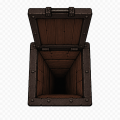
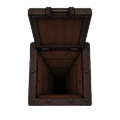
Delay de spawn de enemigos y jefe + audio para escotilla.
Tambien toquetie los stats de los jefes para que no sean paredes de vida

diff --git a/mapa.py b/mapa.py
@@ -6,7 +6,7 @@ import os
 from base import Base
 from enemigo import Enemigo, EnemigoDisparador
 from jefes import JefePiso1, JefePiso2, JefePiso3
-
+from audio import AudioManager
 
 ANCHO_PANTALLA = 800
 ALTO_PANTALLA = 600
@@ -94,16 +94,13 @@ class TexturasMapa:
 
         self.sala_comun = self.cargar_imagen(ruta_sala_comun)
 
-    
         self.puertas_sheet = self.cargar_imagen(os.path.join(ruta_mapa, "puertas_0.png"))
         self.roca = self.cargar_imagen(os.path.join(ruta_mapa, "roca_0.png"))
         self.trampilla_cerrada = self.cargar_imagen(os.path.join(ruta_mapa, "escotilla_cerrada.png"))
         self.trampilla_abierta = self.cargar_imagen(os.path.join(ruta_mapa, "escotilla_abierta.png"))
 
-        
         self.sala_tutorial_fondo = None
         self.sala_comun_fondo = None
-
 
         self.puertas = {
             "ARRIBA": None,
@@ -111,7 +108,6 @@ class TexturasMapa:
             "IZQUIERDA": None,
             "DERECHA": None
         }
-
 
         if self.roca is not None:
             self.roca = limpiar_sprite(self.roca, (TAM_ROCA, TAM_ROCA), tolerancia=60)
@@ -244,6 +240,8 @@ class Trampilla(Base):
 
         if self.imagen_actual is not None:
             self.rect = self.imagen_actual.get_rect(topleft=(self.x, self.y))
+        
+        AudioManager.play_sfx("trampilla_abierta")
 
     def cerrar(self):
         self.visible = True
@@ -306,6 +304,15 @@ class Sala(Base):
         self.conexiones = {}
 
         self.trampilla = None
+
+        # variables para el delay de enemigos comunes
+        self.enemigos_guardados = []
+        self.tiempo_inicio_spawn = 0
+        self.timer_spawn_listo = False
+
+        # variables para el jefe
+        self.jefe_guardado = None
+        self.tiempo_entrada = 0
 
         if self.tipo == "boss" and self.texturas is not None:
             self.trampilla = Trampilla(
@@ -400,8 +407,10 @@ class Sala(Base):
 
         # Si es sala boss y ya no quedan enemigos, aparece la trampilla abierta
         if self.tipo == "boss" and self.trampilla is not None:
-            if len(self.enemigos) == 0:
-                self.trampilla.abrir()
+            # checkeamos que el jefe ya haya spawneado de la lista de espera
+            if self.jefe_guardado is None and len(self.enemigos) == 0:
+                if not self.trampilla.abierta:
+                    self.trampilla.abrir()
 
     def colision(self, rect_jugador):
         for obstaculo in self.obstaculos:
@@ -511,10 +520,8 @@ class Piso(Base):
             color_fondo=(45, 20, 20),
             texturas=self.texturas
         )
-
-        self.salas["boss"].agregar_enemigo(
-            self.crear_jefe_del_piso()
-        )
+        self.salas["boss"].jefe_guardado = self.crear_jefe_del_piso()
+        self.salas["boss"].tiempo_entrada = 0
 
         self.generar_conexiones_aleatorias()
 
@@ -643,6 +650,19 @@ class Piso(Base):
     def cambiar_sala(self, nombre_sala):
         if nombre_sala in self.salas:
             self.sala_actual = self.salas[nombre_sala]
+            
+            # Delay de spawn de enemigos con sonido
+            if len(self.sala_actual.enemigos) > 0 and not self.sala_actual.timer_spawn_listo:
+                self.sala_actual.enemigos_guardados = self.sala_actual.enemigos
+                self.sala_actual.enemigos = []
+                self.sala_actual.tiempo_inicio_spawn = pygame.time.get_ticks()
+            
+            # Sonido de cierre de puertas
+            if self.sala_actual.tipo == "boss" and self.sala_actual.jefe_guardado is not None:
+                if self.sala_actual.tiempo_entrada == 0:
+                    self.sala_actual.tiempo_entrada = pygame.time.get_ticks()
+                    AudioManager.play_sfx("spawn_jefe")
+
             print(
                 "Sala actual:",
                 self.sala_actual.nombre,
@@ -671,18 +691,31 @@ class Piso(Base):
 
     def actualizar(self, pantalla, jugador=None, balas=None):
         if self.sala_actual is not None:
+            # Los enemigos se spawnean al 0.5 segundo
+            if len(self.sala_actual.enemigos_guardados) > 0:
+                if pygame.time.get_ticks() - self.sala_actual.tiempo_inicio_spawn >= 500:
+                    AudioManager.play_sfx("spawn_enemigos")
+                    self.sala_actual.enemigos = self.sala_actual.enemigos_guardados
+                    self.sala_actual.enemigos_guardados = []
+                    self.sala_actual.timer_spawn_listo = True
+
+            # Se spawnea el jefe 1 sec despues
+            if self.sala_actual.tipo == "boss" and self.sala_actual.jefe_guardado is not None:
+                if pygame.time.get_ticks() - self.sala_actual.tiempo_entrada >= 1000:
+                    AudioManager.play_sfx("spawn_enemigos")
+                    self.sala_actual.agregar_enemigo(self.sala_actual.jefe_guardado)
+                    self.sala_actual.jefe_guardado = None
+
             self.sala_actual.actualizar(pantalla, jugador, balas)
 
     def colision(self, rect_jugador):
         if self.sala_actual is not None:
             return self.sala_actual.colision(rect_jugador)
-
         return False
 
     def jugador_en_trampilla(self, rect_jugador):
         if self.sala_actual is not None:
             return self.sala_actual.jugador_en_trampilla(rect_jugador)
-
         return False
 
 

diff --git a/jefes.py b/jefes.py
@@ -16,10 +16,10 @@ class JefeBase(Enemigo):
         self.color = color
 
     def dibujar_barra_vida(self, pantalla):
-        ancho_barra = 450
+        ancho_barra = 375
         alto_barra = 20
-        x = 250
-        y = 20
+        x = 200
+        y = 550
 
         porcentaje = max(0, self.vida / self.vida_maxima)
 
@@ -38,16 +38,16 @@ class JefeBase(Enemigo):
 
 class JefePiso1(JefeBase):
     def __init__(self, x, y):
-        super().__init__(x, y, velocidad=1.6, vida=30, daño=1, color=(180, 40, 40))
+        super().__init__(x, y, velocidad=1.4, vida=14, daño=2, color=(180, 40, 40))
 
-    def actualizar(self, jugador, lista_balas=None, lista_enemigos=None):
+    def actualizar(self, jugador, lista_balas=None, lista_enemigos=None):   
         self.seguir_jugador(jugador)
         self.colision_con_jugador(jugador)
 
 
 class JefePiso2(JefeBase):
     def __init__(self, x, y):
-        super().__init__(x, y, velocidad=2, vida=40, daño=1, color=(150, 60, 180))
+        super().__init__(x, y, velocidad=2, vida=18, daño=2, color=(150, 60, 180))
 
         self.direccion_x = 1
         self.direccion_y = 1
@@ -89,7 +89,7 @@ class JefePiso2(JefeBase):
 
 class JefePiso3(JefeBase):
     def __init__(self, x, y):
-        super().__init__(x, y, velocidad=1, vida=55, daño=1, color=(40, 40, 190))
+        super().__init__(x, y, velocidad=1, vida=22, daño=2, color=(40, 40, 190))
 
         self.cooldown_disparo = 900
         self.ultimo_disparo = 0

diff --git a/enemigo.py b/enemigo.py
@@ -17,10 +17,10 @@ class Enemigo(Base):
         self.alto = 40
         self.rect = pygame.Rect(self.x, self.y, self.ancho, self.alto)
 
-        self.cooldown_daño = 700
+        self.cooldown_daño = 450
         self.ultimo_hit = 0
 
-        self.dimensiones = (60, 70)
+        self.dimensiones = (90, 90)
 
         ruta_raiz = os.path.dirname(os.path.abspath(__file__))
         ruta_carpeta = os.path.join(ruta_raiz, "imagenes", "enemigos", "perseguidor")
@@ -150,9 +150,9 @@ class Enemigo(Base):
 
 class EnemigoDisparador(Enemigo):
     def __init__(self, x, y):
-        super().__init__(x, y, velocidad=0, vida=5, daño=1)
+        super().__init__(x, y, velocidad=0, vida=3, daño=1)
 
-        self.cooldown_disparo = 1500
+        self.cooldown_disparo = 1750
         self.ultimo_disparo = 0
 
         ruta_raiz = os.path.dirname(os.path.abspath(__file__))

diff --git a/audio.py b/audio.py
@@ -25,7 +25,10 @@ class AudioManager:
             "muerte_enemigo": self._cargar_sfx("muerte.wav"),
             "lagrima_impacto": self._cargar_sfx("lagrima_impacto.mp3"),
             "jugar_de_nuevo": self._cargar_sfx("jugar_de_nuevo.mp3"),
-            "iniciar_juego": self._cargar_sfx("iniciar_juego.wav")
+            "iniciar_juego": self._cargar_sfx("iniciar_juego.wav"),
+            "trampilla_abierta": self._cargar_sfx("trampilla_abierta.mp3"),
+            "spawn_jefe": self._cargar_sfx("boss_spawn.mp3"),
+            "spawn_enemigos": self._cargar_sfx("sala_spawn_enemigos.mp3")
         }
         
         # Ajustamos volúmenes iniciales para los efectos de sonido

diff --git a/bala.py b/bala.py
@@ -9,7 +9,7 @@ class Bala(Base):
         super().__init__(x, y)
         self.dire_x = dire_x
         self.dire_Y = dire_Y
-        self.bala_vel = 10
+        self.bala_vel = 12
         self.daño = daño # lo recibe del jugador
         self.rect = pygame.Rect(self.x, self.y, 10, 10)
         Estadisticas.sumar_balas_disparadas()

diff --git a/bala_enemigo.py b/bala_enemigo.py
@@ -9,7 +9,7 @@ class BalaEnemigo(Bala):
         super().__init__(x, y, dire_x, dire_y, daño)
 
         # Stats propias
-        self.bala_vel = 10
+        self.bala_vel = 8
         self.daño = daño
 
         # Estadísticas separadas